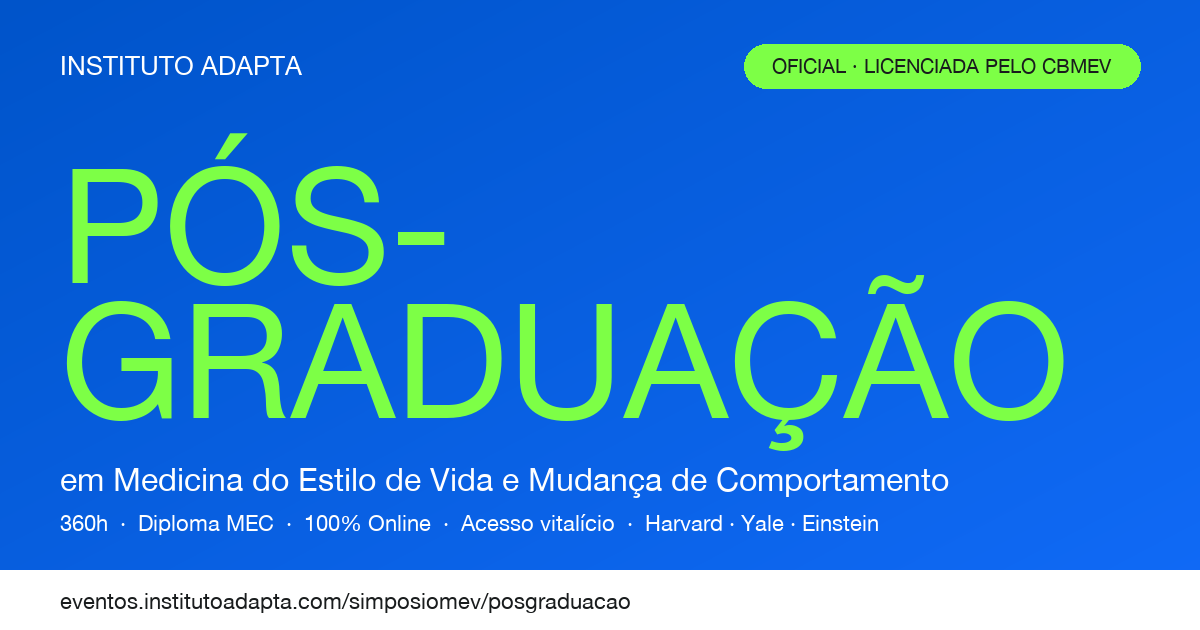
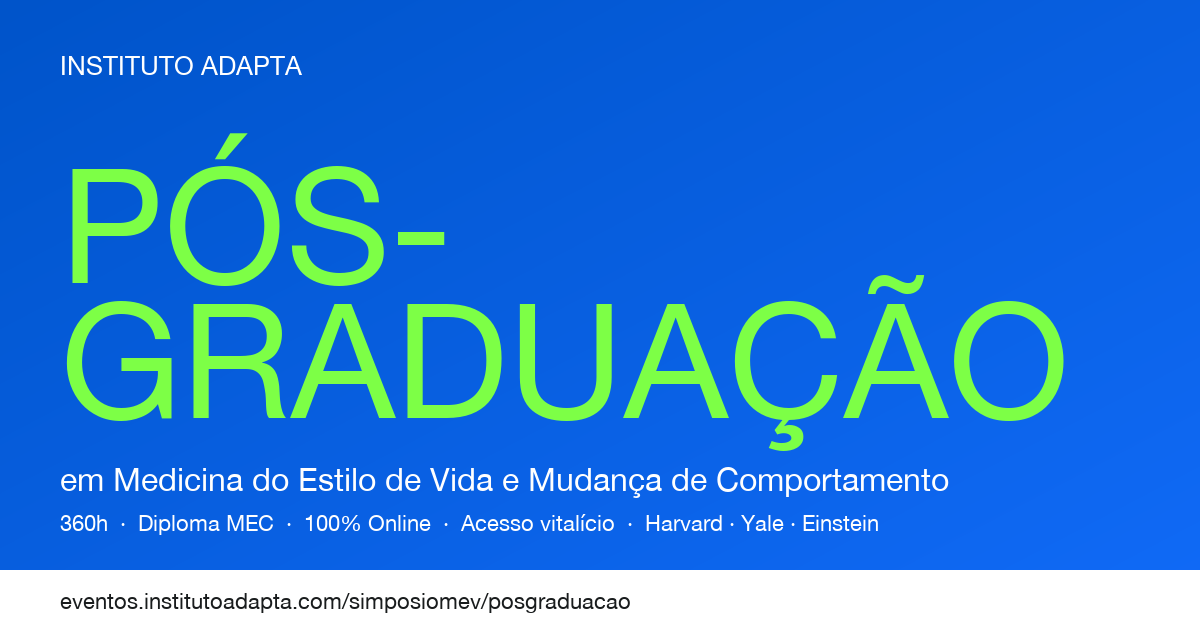
Remove pill 'OFICIAL · LICENCIADA PELO CBMEV' da OG image (#38)
Limpa o canto superior direito da og-posgraduacao.png; agora o canto fica apenas com o gradiente, deixando o título PÓS-GRADUAÇÃO ainda mais protagonista no preview.

Changed region(s): [[0.6167, 0.0603, 0.9558, 0.1508]]

diff --git a/simposiomev/images/brand/_gen_og_posgraduacao.py b/simposiomev/images/brand/_gen_og_posgraduacao.py
@@ -67,13 +67,6 @@ def main():
     f_brand = font(26)
     d.text((60, 50), "INSTITUTO ADAPTA", font=f_brand, fill=WHITE)
 
-    # Top-right: pill verde "LICENCIADA PELO CBMEV"
-    pill_text = "OFICIAL · LICENCIADA PELO CBMEV"
-    f_pill = font(20)
-    bbox = d.textbbox((0, 0), pill_text, font=f_pill)
-    pill_w = bbox[2] - bbox[0] + 56
-    draw_pill(d, (W - pill_w - 60, 44), pill_text, f_pill, GREEN, DARK_TEXT)
-
     # PÓS-GRADUAÇÃO — protagonista
     f_title = font(160)
     d.text((60, 130), "PÓS-", font=f_title, fill=GREEN)
